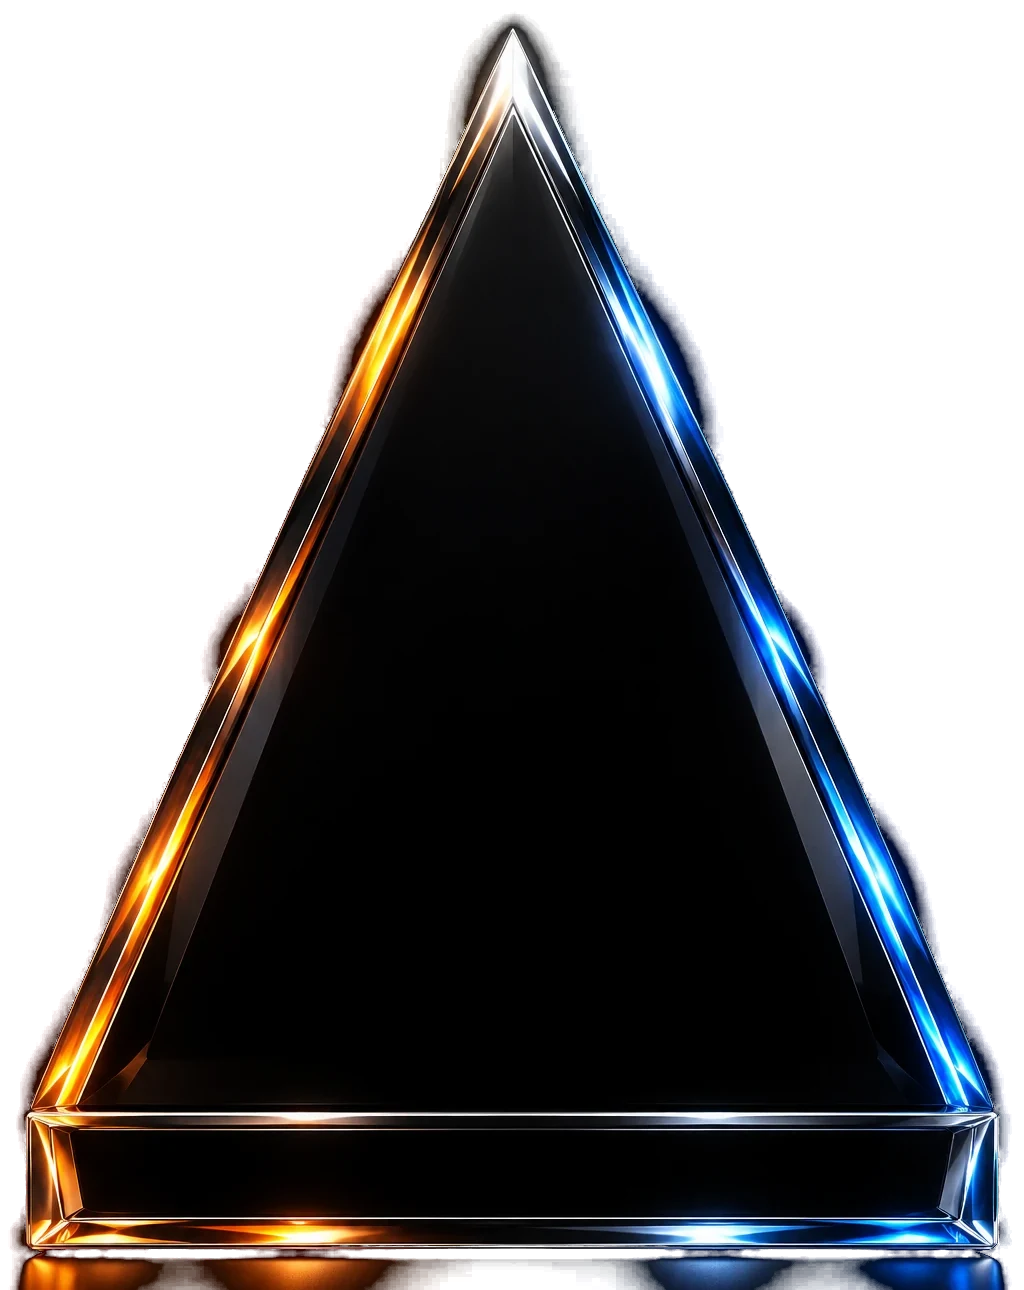
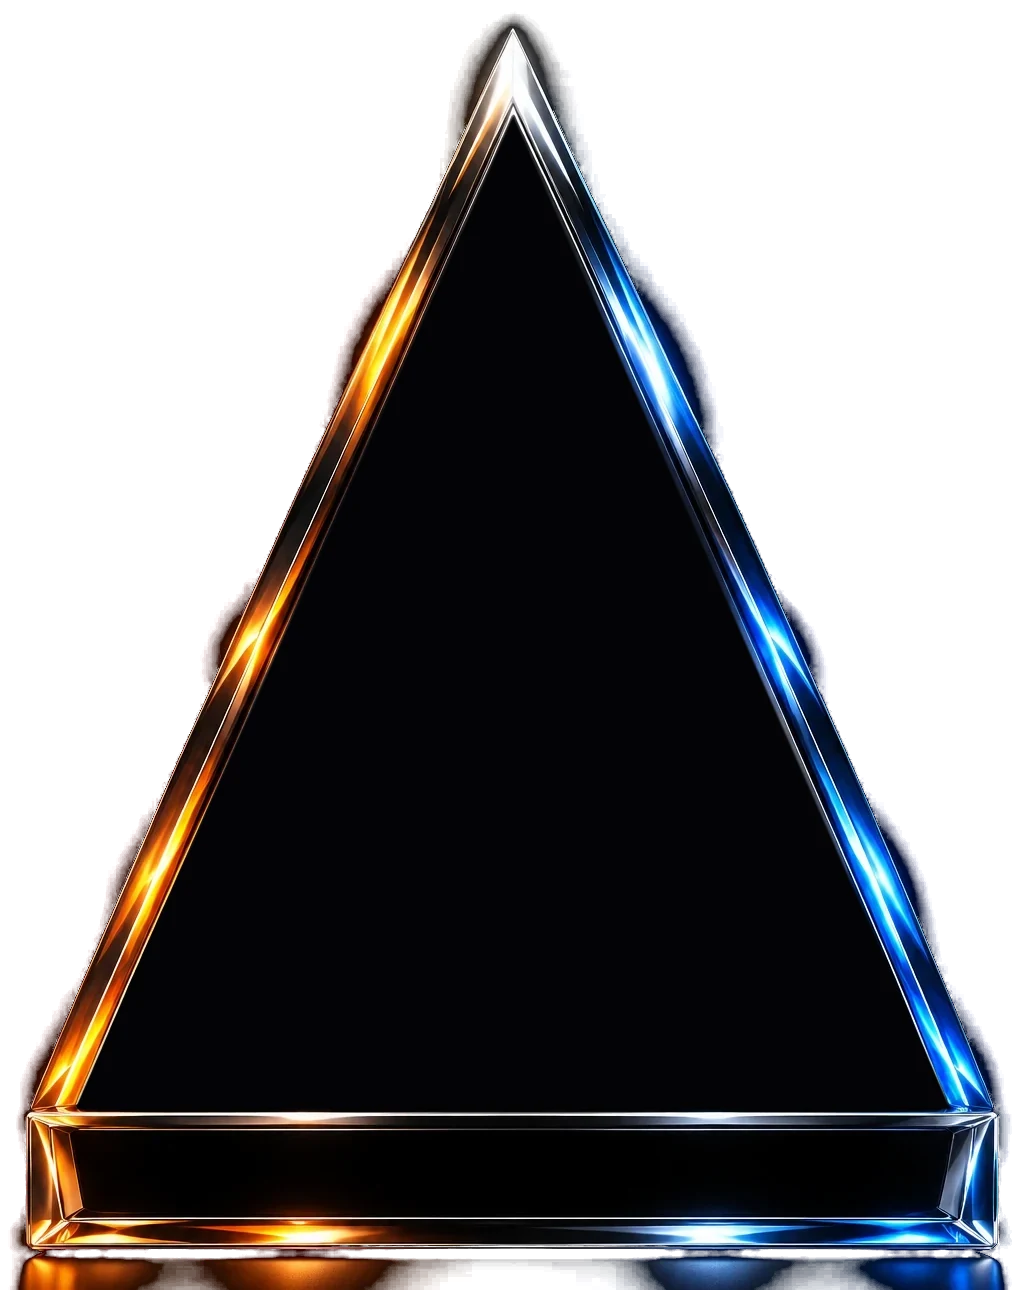
fix(board): paint out the grey inner facet of the obsidian frame
The generated art had a grey inner facet inside the lit bevel, lit unevenly
left and right. It is now painted pure black, so the plate runs right up to
the lit line, and the playfield ends there with an even peg margin.

diff --git a/src/board/cabinet.ts b/src/board/cabinet.ts
@@ -72,10 +72,9 @@ export const CABINET_URL: string = cabinetUrl;
 /**
  * Second design, the classic look: a black obsidian triangle in a mirror-chrome bevel with
  * light inlaid in it, amber on the left and blue on the right, and a chrome-rimmed tray for
- * the bins. The playfield ends at the inner edge of the bevel's lit facet on the left (the
- * art is lit unevenly, the right facet is darker), mirrored to the right, and the pegs run
- * close to it. Measured on `art/cabinet-minimal.png` (1024×1290, cropped from
- * `art/cabinet-minimal-source.webp`). The pyramid sits on the tray and its row gap matches
+ * the bins. The art's grey inner facet is painted out, so the black plate runs right up to
+ * the lit bevel and the playfield ends there. Measured on `art/cabinet-minimal.png`
+ * (1024×1290, cropped from `art/cabinet-minimal-source.webp`). The pyramid sits on the tray and its row gap matches
  * the sides' slope, so the rows run parallel to the bevel with an even margin.
  */
 export const MINIMAL_LAYOUT: CabinetLayout = {
@@ -83,10 +82,10 @@ export const MINIMAL_LAYOUT: CabinetLayout = {
   field: {
     top: 0.1318,
     bottom: 0.8574,
-    leftTop: 0.4898,
-    rightTop: 0.5121,
-    leftBottom: 0.1205,
-    rightBottom: 0.8805,
+    leftTop: 0.4771,
+    rightTop: 0.5248,
+    leftBottom: 0.0751,
+    rightBottom: 0.9269,
     corner: 4 / 1290,
     topCorner: 4 / 1290,
   },
@@ -98,7 +97,7 @@ export const MINIMAL_LAYOUT: CabinetLayout = {
   binsFillShelf: true,
   // the bevelled frame must not be distorted
   maxStretch: 1,
-  pegEdge: 0.32,
+  pegEdge: 0.5,
 };
 
 export const CABINETS: Record<Skin, { url: string; layout: CabinetLayout }> = {
